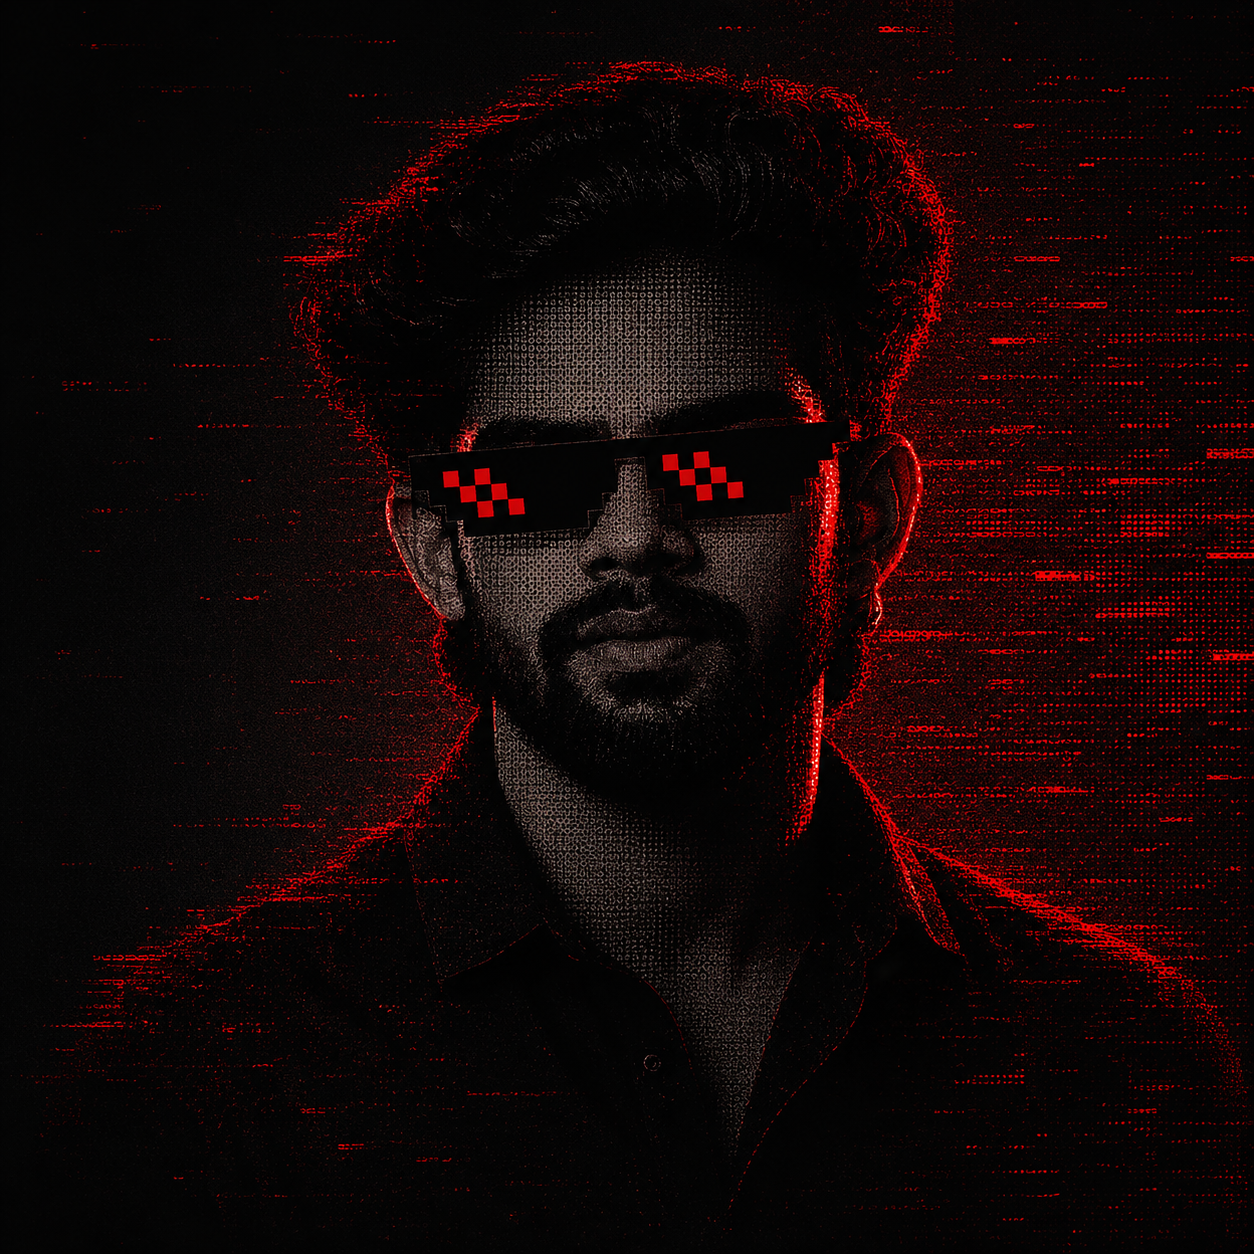
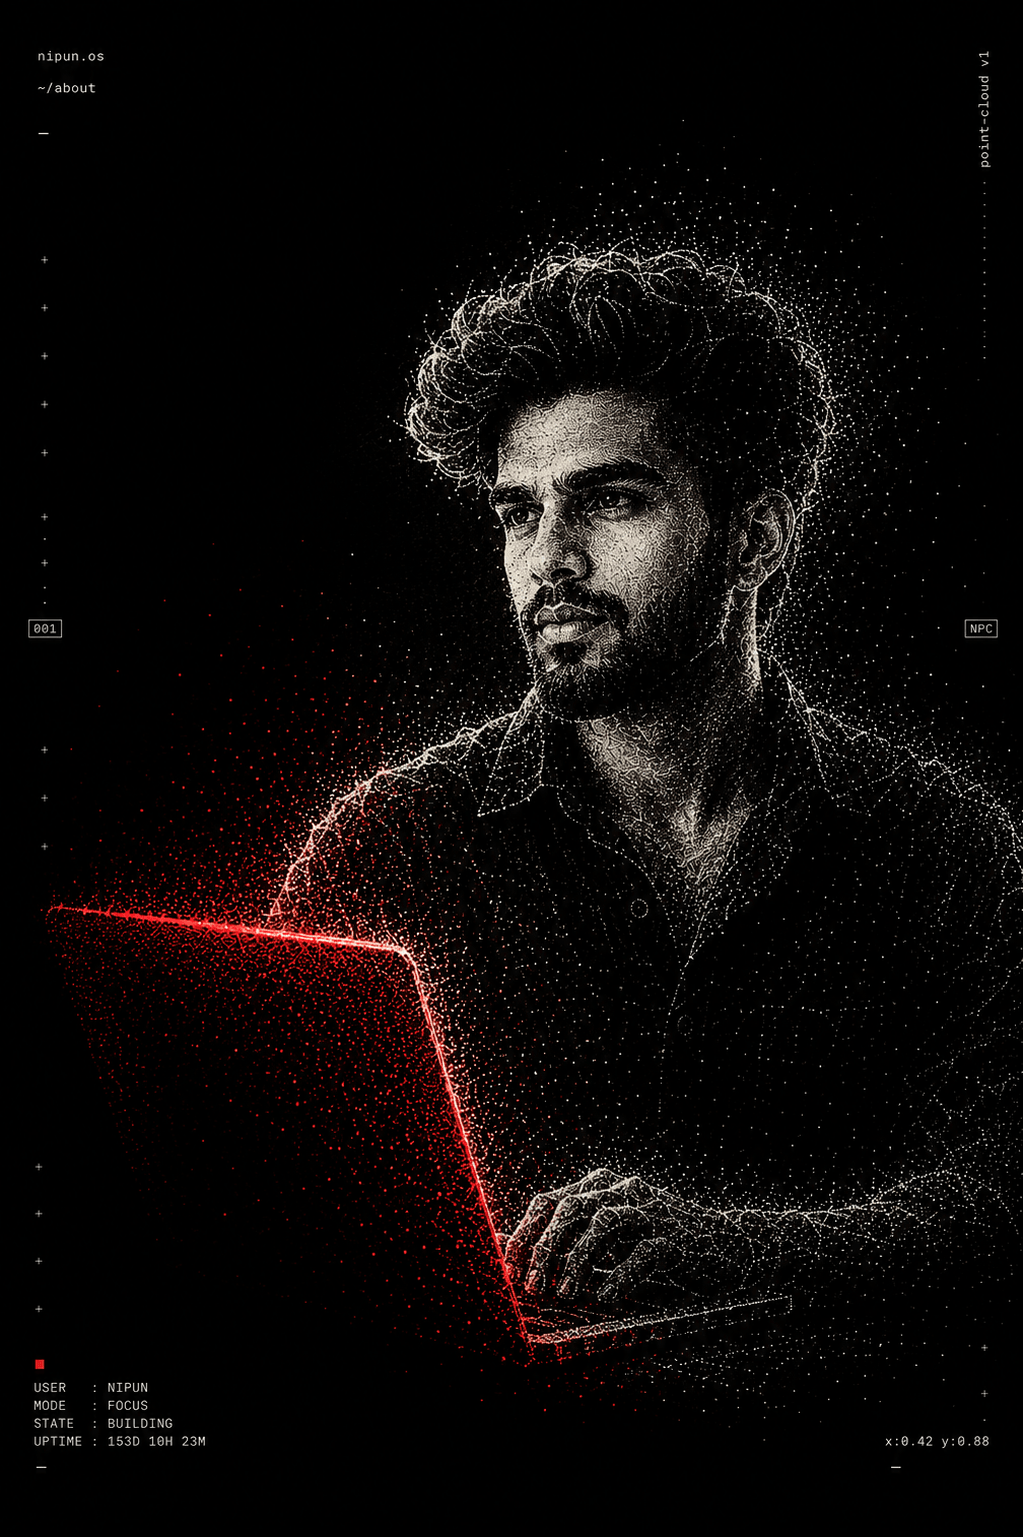
feat(hero): point-cloud portrait, shorter boot, drop scoreboard

diff --git a/src/components/terminal/BootSequence.jsx b/src/components/terminal/BootSequence.jsx
@@ -6,6 +6,17 @@ const RED = "#dd2316";
 const TEXT = "#ece8e3";
 const SECOND = "#8a857f";
 const DIM = "#4f4a45";
+const BOOT_TEST = true; // TODO testing: replay boot every reload; set false to boot once per tab session
+
+function signalBooted() {
+  if (typeof window === "undefined") return;
+  window.__nipunBooted = true;
+  try {
+    window.dispatchEvent(new Event("nipun:booted"));
+  } catch {
+    /* ignore */
+  }
+}
 
 const LINES = [
   { t: "[ ok ]", m: "kernel", ms: 4 },
@@ -47,6 +58,7 @@ function MsCounter({ target }) {
 export default function BootSequence() {
   const reduce = useReducedMotion();
   const [show, setShow] = useState(() => {
+    if (BOOT_TEST) return true;
     try {
       return sessionStorage.getItem("nipun.booted") !== "1";
     } catch {
@@ -65,8 +77,14 @@ export default function BootSequence() {
     } catch {
       /* ignore */
     }
+    signalBooted();
     setShow(false);
   };
+
+  useEffect(() => {
+    if (!show) signalBooted();
+    // eslint-disable-next-line react-hooks/exhaustive-deps
+  }, []);
 
   useEffect(() => {
     if (!show) return undefined;
@@ -81,10 +99,10 @@ export default function BootSequence() {
           if (n >= LINES.length) clearInterval(li);
           return n;
         }),
-      380
+      230
     );
-    const pi = setInterval(() => setPct((p) => Math.min(100, p + 3)), 90);
-    const end = setTimeout(finish, 4200);
+    const pi = setInterval(() => setPct((p) => Math.min(100, p + 6)), 48);
+    const end = setTimeout(finish, 2050);
     const skip = () => finish();
     window.addEventListener("keydown", skip);
     window.addEventListener("pointerdown", skip);

diff --git a/src/components/terminal/TerminalHero.jsx b/src/components/terminal/TerminalHero.jsx
@@ -346,10 +346,10 @@ function LiveScore() {
   const when = new Date(m.utcDate).toLocaleString("en-IN", { month: "short", day: "numeric", hour: "2-digit", minute: "2-digit", hour12: false, timeZone: "Asia/Kolkata" });
 
   return (
-    <div className="mt-6 inline-flex items-end gap-4" style={{ opacity: 0.85 }}>
-      <div className="relative inline-flex items-end gap-4">
+    <div className="mt-6 inline-flex items-end gap-2 sm:gap-4" style={{ opacity: 0.85 }}>
+      <div className="relative inline-flex items-end gap-2 sm:gap-4">
       <Goal side="l" pulsing={kick && kick.side === "l"} key={`gl-${kick?.side === "l" ? kick.n : 0}`} />
-      <div className="min-w-[170px] pb-3 text-center">
+      <div className="min-w-[146px] pb-3 text-center sm:min-w-[170px]">
         <p className="mb-1 flex items-center justify-center gap-2 text-[10px] tracking-widest" style={{ color: RED }}>
           {m.live ? "LIVE" : "NEXT"} // {m.comp || "FOOTBALL"}
           {m.live && <span className="term-pulse">●</span>}
@@ -444,11 +444,11 @@ const TerminalHero = memo(() => {
         }}
       />
 
-      {/* Cursor-reactive grid */}
+      {/* Cursor-reactive grid (desktop only; useless + too bright on touch) */}
       <div
         ref={gridRef}
         aria-hidden="true"
-        className="pointer-events-none absolute inset-0 z-20"
+        className="pointer-events-none absolute inset-0 z-20 hidden sm:block"
         style={{
           backgroundImage:
             "linear-gradient(rgba(221,35,22,0.55) 1px, transparent 1px), linear-gradient(90deg, rgba(221,35,22,0.55) 1px, transparent 1px)",
@@ -477,7 +477,7 @@ const TerminalHero = memo(() => {
       <motion.header
         {...rise(0.04)}
         className="absolute inset-x-0 top-0 z-50 flex items-center justify-between px-4 py-2.5 text-[11px] sm:px-6"
-        style={{ color: "#ffffff", textShadow: "0 1px 3px rgba(0,0,0,0.95)", background: "linear-gradient(180deg, rgba(0,0,0,0.85) 0%, rgba(0,0,0,0.4) 55%, transparent 100%)" }}
+        style={{ color: "#ffffff", textShadow: "0 1px 2px rgba(0,0,0,1), 0 0 6px rgba(0,0,0,0.9)", background: "transparent" }}
       >
         <span className="flex items-center gap-2">
           <span style={{ color: RED }}>✶</span>
@@ -533,10 +533,6 @@ const TerminalHero = memo(() => {
               </div>
             ))}
           </motion.div>
-
-          <motion.div {...rise(0.6)}>
-            <LiveScore />
-          </motion.div>
         </div>
 
         {/* RIGHT — portrait (upper) + widgets (lower) */}
@@ -547,7 +543,7 @@ const TerminalHero = memo(() => {
               alt="Nipun Sujesh"
               className="absolute inset-0 h-full w-full object-cover object-center"
               style={{
-                transform: "scale(1.06)",
+                transform: "scale(1.06) translateY(4%)",
                 maskImage: "radial-gradient(ellipse 80% 84% at 60% 42%, #000 46%, transparent 84%)",
                 WebkitMaskImage: "radial-gradient(ellipse 80% 84% at 60% 42%, #000 46%, transparent 84%)",
               }}